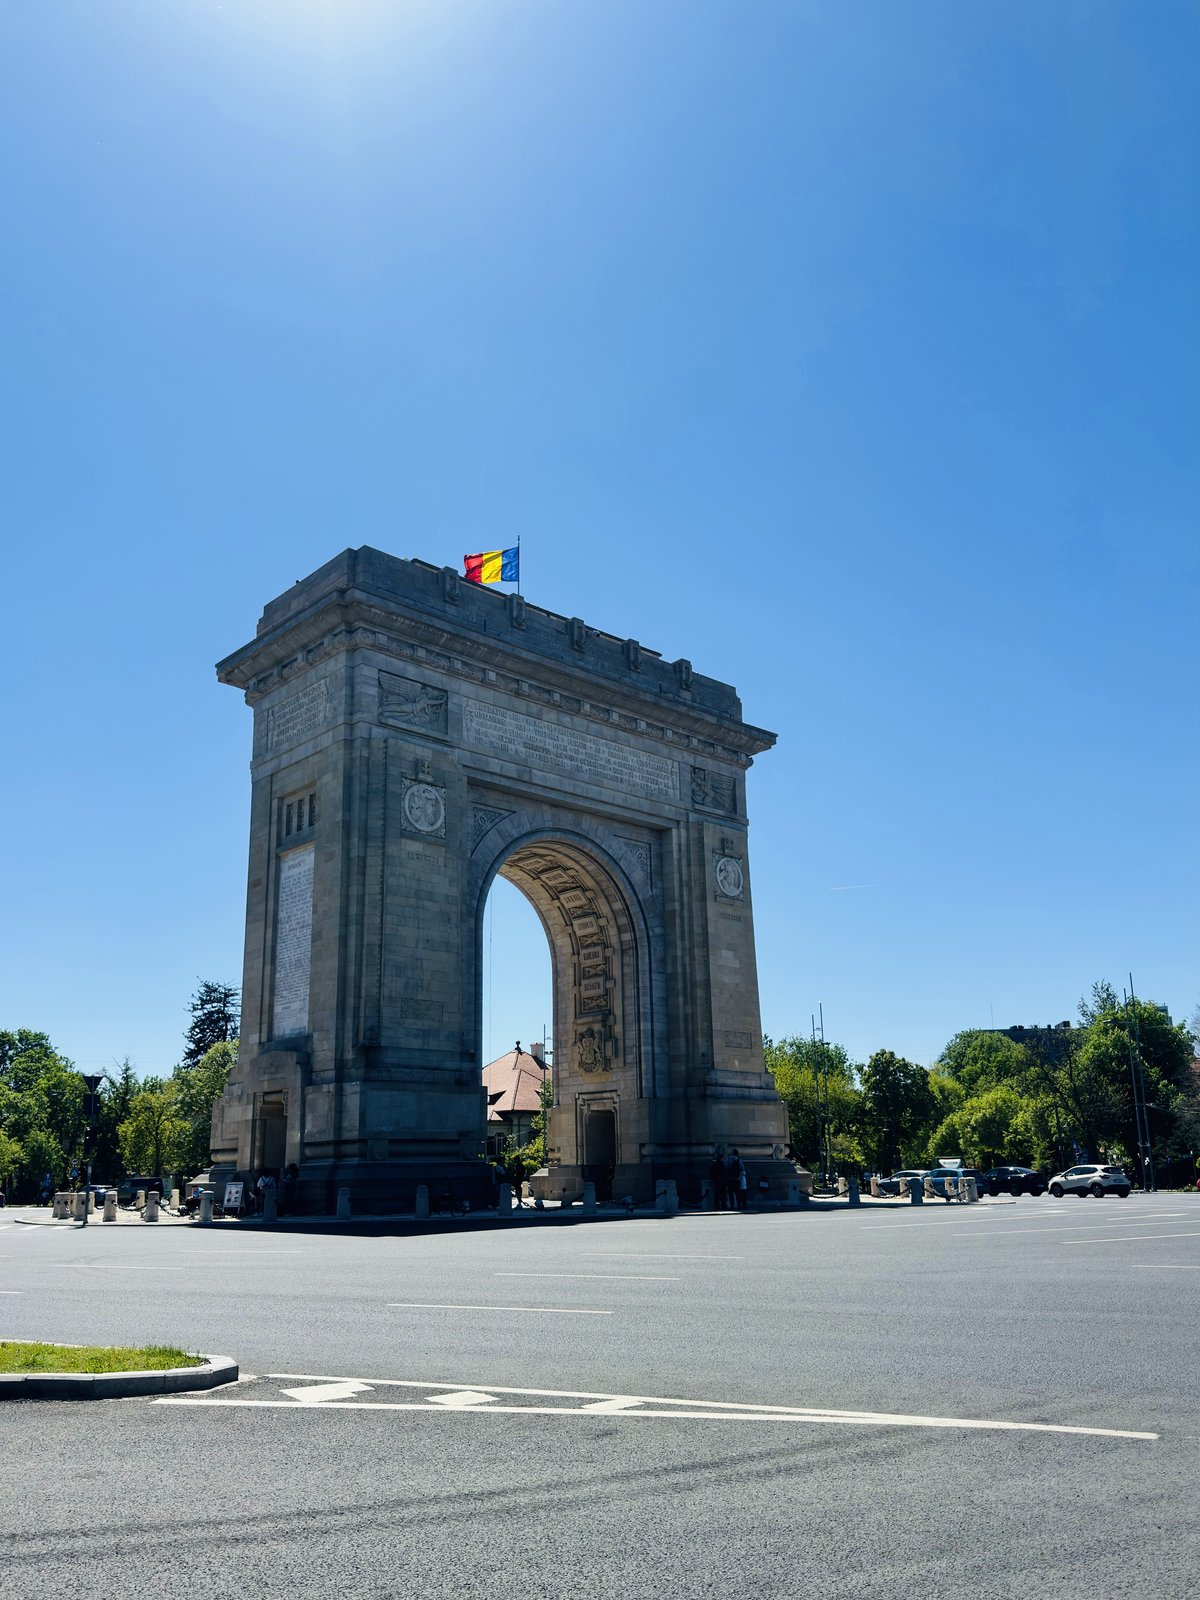
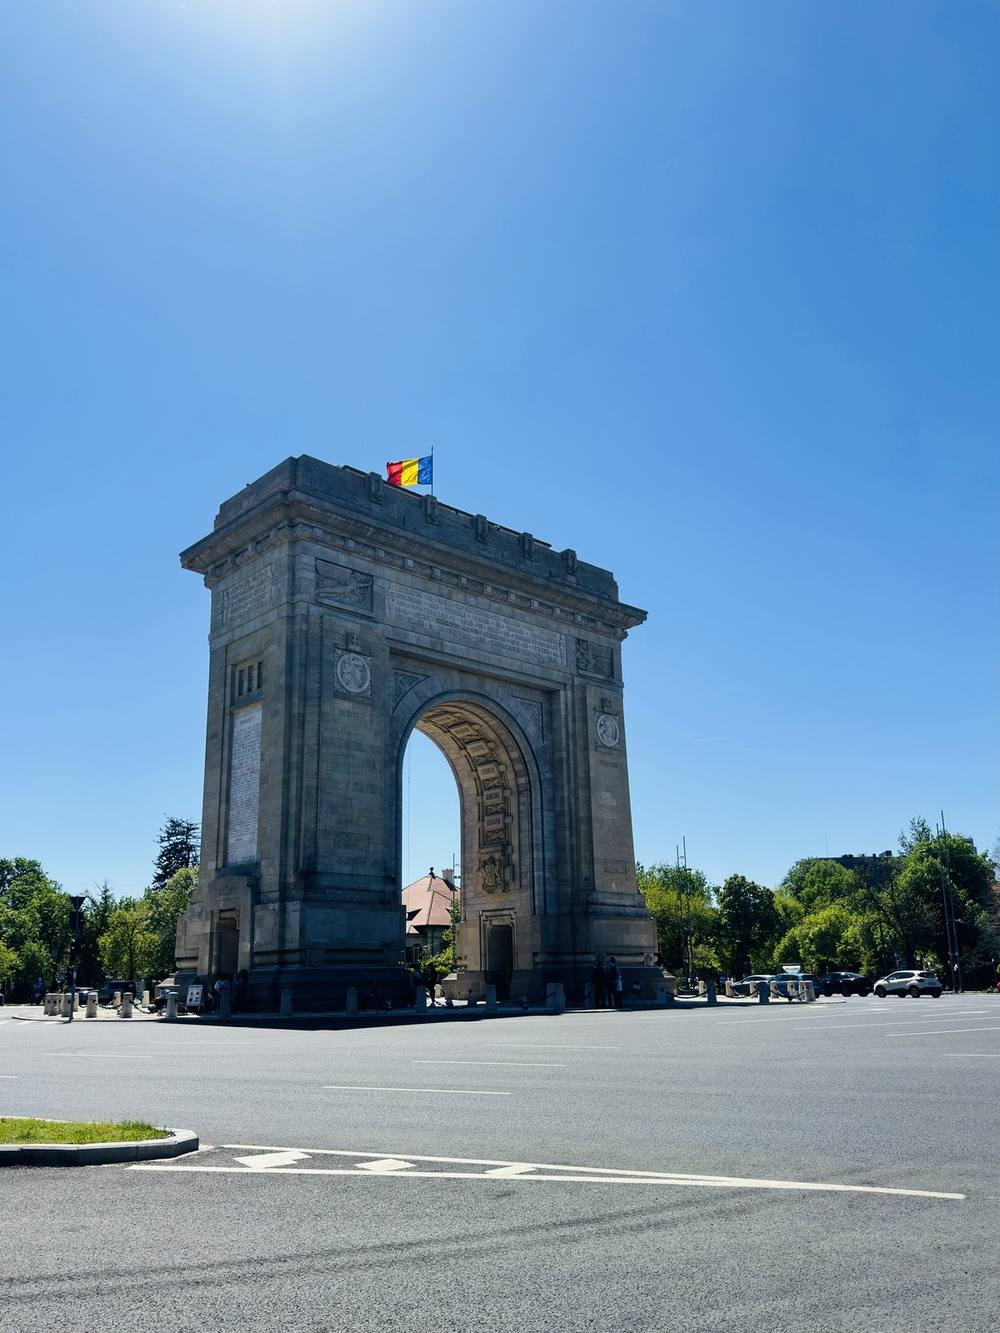
Foto più leggere e in linea col testo, correggo Uber in Bolt
- Ricomprime le foto dell'articolo Bucarest (1000x1333, qualità 72):
  da ~7MB a ~3.6MB totali
- Aggiunge supporto a più immagini per sezione, legate a un paragrafo
  preciso (`images[].afterParagraph`), invece di un unico blocco a
  fine sezione: le foto singole diventano un formato più compatto
  16:10, i gruppi di più foto si affiancano in griglia
- Ridistribuisce tutte le foto dell'articolo (comprese quelle finora
  nella galleria in fondo) accanto al paragrafo a cui si riferiscono
- Corregge "Uber" in "Bolt" nel racconto del giorno 3

Changed region(s): [[0.0, 0.6459, 0.062, 0.7074], [0.155, 0.6152, 0.186, 0.6767], [0.403, 0.3383, 0.434, 0.3691]]

diff --git a/src/data/articles.js b/src/data/articles.js
@@ -71,16 +71,20 @@ export const articles = [
               "Dopo cena abbiamo fatto una passeggiata nel Centrul Vechi. Nel weekend le strade del centro hanno un'aria di festa continua, con locali affollati e musica che esce dai portoni: è la prima cosa che colpisce di Bucarest, ancora prima dei monumenti.",
             ],
 
-            image: "/bucarest-article-hanul-2.jpg",
-
-            imageWidth: 1200,
-
-            imageHeight: 1600,
-
-            imageAlt: "Il cortile di Hanul lui Manuc affollato la sera",
-
-            caption:
-              "Il cortile di Hanul lui Manuc, tra tavoli pieni e musica dal vivo.",
+            images: [
+              {
+                src: "/bucarest-article-hanul-1.jpg",
+                alt: "Un piatto tradizionale rumeno da Hanul lui Manuc",
+                caption: "Il piatto tradizionale della nostra prima cena a Bucarest.",
+                afterParagraph: 0,
+              },
+              {
+                src: "/bucarest-article-hanul-2.jpg",
+                alt: "Il cortile di Hanul lui Manuc affollato la sera",
+                caption: "Il cortile di Hanul lui Manuc, tra tavoli pieni e musica dal vivo.",
+                afterParagraph: 1,
+              },
+            ],
 
             quote:
               "Non ci aspettavamo che il primo impatto con Bucarest fosse un locale pieno di musica dal vivo e gente che balla.",
@@ -113,16 +117,26 @@ export const articles = [
               "Dalla colazione siamo passati per la famosissima e particolarissima Strada Cu Umbrele, la strada degli ombrelli, prima di arrivare a Cărturești Carusel, la cartolibreria più famosa di Bucarest: vale la visita anche solo per l'interno.",
             ],
 
-            image: "/bucarest-article-carturesti.jpg",
-
-            imageWidth: 1200,
-
-            imageHeight: 1600,
-
-            imageAlt: "Interno della libreria Cărturești Carusel",
-
-            caption:
-              "Cărturești Carusel, uno degli interni più riconoscibili di Bucarest.",
+            images: [
+              {
+                src: "/bucarest-article-colazione.jpg",
+                alt: "Pancake alla colazione di Coftale Coffee Shop",
+                caption: "La colazione da Coftale Coffee Shop.",
+                afterParagraph: 0,
+              },
+              {
+                src: "/bucarest-article-strada-ombrele.jpg",
+                alt: "Gli ombrelli colorati di Strada Cu Umbrele",
+                caption: "Strada Cu Umbrele.",
+                afterParagraph: 1,
+              },
+              {
+                src: "/bucarest-article-carturesti.jpg",
+                alt: "Interno della libreria Cărturești Carusel",
+                caption: "Cărturești Carusel, uno degli interni più riconoscibili di Bucarest.",
+                afterParagraph: 1,
+              },
+            ],
 
             quote:
               "Bastava alzare gli occhi sopra la testa per capire perché tutti fotografano questo posto.",
@@ -139,16 +153,38 @@ export const articles = [
               "Al tramonto siamo andati al Parcul Cismigiu: un parco piacevole da visitare per il laghetto e i ponti che lo attraversano, perfetto per rallentare dopo una giornata di cammino.",
             ],
 
-            image: "/bucarest-article-parlamento.jpg",
-
-            imageWidth: 1200,
-
-            imageHeight: 1600,
-
-            imageAlt: "Il Palazzo del Parlamento di Bucarest in una giornata di sole",
-
-            caption:
-              "Il Palazzo del Parlamento, il più grande edificio governativo al mondo dopo il Pentagono.",
+            images: [
+              {
+                src: "/bucarest-article-victoriei.jpg",
+                alt: "Calea Victoriei pedonale in una giornata di sole",
+                caption: "Calea Victoriei.",
+                afterParagraph: 0,
+              },
+              {
+                src: "/bucarest-article-ateneul.jpg",
+                alt: "L'Ateneul Roman visto dal giardino",
+                caption: "L'Ateneul Roman.",
+                afterParagraph: 0,
+              },
+              {
+                src: "/bucarest-article-parlamento.jpg",
+                alt: "Il Palazzo del Parlamento di Bucarest in una giornata di sole",
+                caption: "Il Palazzo del Parlamento.",
+                afterParagraph: 0,
+              },
+              {
+                src: "/bucarest-article-stavropoleos.jpg",
+                alt: "La facciata dipinta della chiesa di Stavropoleos",
+                caption: "La chiesa di Stavropoleos.",
+                afterParagraph: 0,
+              },
+              {
+                src: "/bucarest-article-pedalo-tramonto.jpg",
+                alt: "Pedalò al tramonto sul laghetto del Parcul Cismigiu",
+                caption: "Il laghetto del Parcul Cismigiu al tramonto.",
+                afterParagraph: 1,
+              },
+            ],
 
             quote:
               "Bastava allontanarsi di poche centinaia di metri da Calea Victoriei per trovare un ritmo completamente diverso.",
@@ -196,16 +232,26 @@ export const articles = [
               "Pedalando si passa dal memoriale a Michael Jackson fino all'Arco di Trionfo, molto simile a quello parigino, tra scorci che meritano più di una sosta.",
             ],
 
-            image: "/bucarest-article-arco-trionfo.jpg",
-
-            imageWidth: 1200,
-
-            imageHeight: 1600,
-
-            imageAlt: "L'Arco di Trionfo di Bucarest in una giornata di sole",
-
-            caption:
-              "L'Arco di Trionfo, molto simile a quello parigino, tappa finale della pedalata lungo il lago.",
+            images: [
+              {
+                src: "/bucarest-article-bici-herastrau.jpg",
+                alt: "Bici a noleggio sul lago del Parcul Herastrau",
+                caption: "Il noleggio bici di iVelo sul lago di Herastrau.",
+                afterParagraph: 0,
+              },
+              {
+                src: "/bucarest-article-memorial-jackson.jpg",
+                alt: "Il memoriale a Michael Jackson nel Parcul Herastrau",
+                caption: "Il memoriale a Michael Jackson.",
+                afterParagraph: 1,
+              },
+              {
+                src: "/bucarest-article-arco-trionfo.jpg",
+                alt: "L'Arco di Trionfo di Bucarest in una giornata di sole",
+                caption: "L'Arco di Trionfo, molto simile a quello parigino.",
+                afterParagraph: 1,
+              },
+            ],
 
             quote:
               "Il parco più bello lo abbiamo scoperto in bici, non a piedi.",
@@ -222,15 +268,14 @@ export const articles = [
               "Il pomeriggio lo abbiamo passato girando i dintorni del centro, osservando la classica domenica delle famiglie nei tanti parchi della città, con un caffè freddo nel suggestivo bar Mayfair 39.",
             ],
 
-            image: "/bucarest-article-pastrami.jpg",
-
-            imageWidth: 1200,
-
-            imageHeight: 1600,
-
-            imageAlt: "Un sandwich di pastrami da In House Pastrami",
-
-            caption: "Il pastrami di In House Pastrami, la versione originale rumena del piatto.",
+            images: [
+              {
+                src: "/bucarest-article-pastrami.jpg",
+                alt: "Un sandwich di pastrami da In House Pastrami",
+                caption: "Il pastrami di In House Pastrami, la versione originale rumena del piatto.",
+                afterParagraph: 0,
+              },
+            ],
 
             quote:
               "La domenica pomeriggio a Bucarest si vive nei parchi, tra famiglie e passeggini, non nei musei.",
@@ -242,7 +287,7 @@ export const articles = [
             paragraphs: [
               "Abbiamo deciso volutamente di omettere le famosissime terme. Perché? Perché spesso si pensa che la cosa che fanno tutti sia quella da provare assolutamente, e si finisce nella banalità, a condividere l'attività con altri italiani in vacanza.",
               "Noi di Europando vogliamo vivere il posto con la sua autenticità: ogni tanto qualcosa di scontato ci sta, ma non sarà mai il filo conduttore dei nostri viaggi. Amiamo vivere con i cittadini, parlare con loro, ascoltare le loro storie e imparare dalla storia del paese che visitiamo.",
-              "Ogni spostamento lo abbiamo fatto con Uber: economico e veloce. I mezzi pubblici, nella nostra esperienza, sono risultati poco efficienti.",
+              "Ogni spostamento lo abbiamo fatto con Bolt: economico e veloce. I mezzi pubblici, nella nostra esperienza, sono risultati poco efficienti.",
             ],
 
             image: "",
@@ -279,15 +324,14 @@ export const articles = [
               "Se dovessimo raccontare una sola cosa di questo viaggio a un amico, racconteremmo che le strade del centro di Bucarest sono un luogo in cui capita di fermarsi a cantare con sconosciuti: un momento bellissimo che non conosce limiti né barriere linguistiche.",
             ],
 
-            image: "/bucarest-article-colazione-finale.jpg",
-
-            imageWidth: 1200,
-
-            imageHeight: 1600,
-
-            imageAlt: "L'ultima colazione da Gram Bistro prima della partenza",
-
-            caption: "L'ultima colazione da Gram Bistro, prima del pullman per l'aeroporto.",
+            images: [
+              {
+                src: "/bucarest-article-colazione-finale.jpg",
+                alt: "L'ultima colazione da Gram Bistro prima della partenza",
+                caption: "L'ultima colazione da Gram Bistro, prima del pullman per l'aeroporto.",
+                afterParagraph: 0,
+              },
+            ],
 
             quote:
               "Non ci ha conquistati una singola attrazione, ma la sensazione di essere finiti a cantare per strada con degli sconosciuti.",
@@ -296,44 +340,7 @@ export const articles = [
       },
     ],
 
-    gallery: [
-      {
-        src: "/bucarest-article-hanul-1.jpg",
-        alt: "Un piatto tradizionale rumeno da Hanul lui Manuc",
-      },
-      {
-        src: "/bucarest-article-colazione.jpg",
-        alt: "Pancake alla colazione di Coftale Coffee Shop",
-      },
-      {
-        src: "/bucarest-article-victoriei.jpg",
-        alt: "Calea Victoriei pedonale in una giornata di sole",
-      },
-      {
-        src: "/bucarest-article-ateneul.jpg",
-        alt: "L'Ateneul Roman visto dal giardino",
-      },
-      {
-        src: "/bucarest-article-stavropoleos.jpg",
-        alt: "La facciata dipinta della chiesa di Stavropoleos",
-      },
-      {
-        src: "/bucarest-article-memorial-jackson.jpg",
-        alt: "Il memoriale a Michael Jackson nel Parcul Herastrau",
-      },
-      {
-        src: "/bucarest-article-strada-ombrele.jpg",
-        alt: "Gli ombrelli colorati di Strada Cu Umbrele",
-      },
-      {
-        src: "/bucarest-article-bici-herastrau.jpg",
-        alt: "Bici a noleggio sul lago del Parcul Herastrau",
-      },
-      {
-        src: "/bucarest-article-pedalo-tramonto.jpg",
-        alt: "Pedalò al tramonto su un laghetto di Bucarest",
-      },
-    ],
+    gallery: [],
 
     galleryTitle: "Bucarest attraverso le nostre fotografie",
 

diff --git a/src/pages/ArticlePage.jsx b/src/pages/ArticlePage.jsx
@@ -277,34 +277,81 @@ function RouteDivider() {
   );
 }
 
-// width e height dichiarati fanno riservare al browser lo spazio esatto prima
-// che l'immagine arrivi: senza, il testo veniva spinto in basso al caricamento.
-function BlogImage({ src, alt, caption, width, height }) {
-  if (!src) {
+// Un gruppo di una o più foto legate allo stesso punto del testo. Con più di
+// un'immagine diventano una piccola griglia affiancata invece di blocchi
+// enormi impilati. L'aspect ratio fisso riserva lo spazio prima del
+// caricamento, senza bisogno di width/height sull'tag <img>.
+function PhotoGroup({ images }) {
+  if (!images?.length) {
     return null;
   }
 
-  return (
-    <figure className="my-11 md:-mx-16 md:my-14">
-      <div className="overflow-hidden rounded-[1.5rem] bg-[#e5ddd2] shadow-[0_16px_45px_rgba(39,54,71,0.09)]">
-        <img
-          src={resolveAsset(src)}
-          alt={alt}
-          width={width}
-          height={height}
-          loading="lazy"
-          decoding="async"
-          className="max-h-[760px] w-full object-cover transition duration-700 hover:scale-[1.015]"
-        />
-      </div>
+  const isSingle = images.length === 1;
 
-      {caption && (
-        <figcaption className="mt-4 px-1 text-sm leading-6 text-[#738092]">
-          {caption}
-        </figcaption>
-      )}
-    </figure>
+  const gridClass = isSingle
+    ? "grid-cols-1"
+    : images.length === 2
+      ? "grid-cols-2"
+      : "grid-cols-2 sm:grid-cols-4";
+
+  return (
+    <div className={`my-8 grid gap-3 sm:gap-4 ${gridClass}`}>
+      {images.map((image, index) => (
+        <figure
+          key={`${image.src}-${index}`}
+          className="overflow-hidden rounded-[1.2rem] bg-[#e5ddd2] shadow-[0_10px_30px_rgba(39,54,71,0.08)]"
+        >
+          <img
+            src={resolveAsset(image.src)}
+            alt={image.alt || ""}
+            loading="lazy"
+            decoding="async"
+            className={`w-full object-cover transition duration-700 hover:scale-[1.03] ${
+              isSingle ? "aspect-[16/10]" : "aspect-[3/4]"
+            }`}
+          />
+
+          {image.caption && (
+            <figcaption className="px-3 py-2 text-xs leading-5 text-[#738092]">
+              {image.caption}
+            </figcaption>
+          )}
+        </figure>
+      ))}
+    </div>
   );
+}
+
+// Le foto di una sezione possono legarsi a un paragrafo preciso
+// (`afterParagraph`, indice 0-based) invece di comparire tutte insieme in
+// fondo. Quelle senza indice, o il vecchio campo singolo `image`, restano di
+// default in coda alla sezione.
+function groupSectionImages(section) {
+  const groups = new Map();
+
+  (section.images ?? []).forEach((image) => {
+    const key = Number.isInteger(image.afterParagraph)
+      ? image.afterParagraph
+      : -1;
+
+    if (!groups.has(key)) {
+      groups.set(key, []);
+    }
+
+    groups.get(key).push(image);
+  });
+
+  if (!section.images?.length && section.image) {
+    groups.set(-1, [
+      {
+        src: section.image,
+        alt: section.imageAlt || section.title,
+        caption: section.caption,
+      },
+    ]);
+  }
+
+  return groups;
 }
 
 function PersonalNote({ children }) {
@@ -371,6 +418,8 @@ function TravelTip({ children }) {
 }
 
 function ArticleSection({ section }) {
+  const imageGroups = groupSectionImages(section);
+
   return (
     <section>
       {section.title && (
@@ -382,18 +431,16 @@ function ArticleSection({ section }) {
       {section.paragraphs?.length > 0 && (
         <div className="mt-7 space-y-7 text-[1.08rem] leading-8 text-[#48596c] sm:text-lg sm:leading-9">
           {section.paragraphs.map((paragraph, index) => (
-            <p key={index}>{paragraph}</p>
+            <div key={index}>
+              <p>{paragraph}</p>
+
+              <PhotoGroup images={imageGroups.get(index)} />
+            </div>
           ))}
         </div>
       )}
 
-      <BlogImage
-        src={section.image}
-        alt={section.imageAlt || section.title}
-        caption={section.caption}
-        width={section.imageWidth}
-        height={section.imageHeight}
-      />
+      <PhotoGroup images={imageGroups.get(-1)} />
 
       <PersonalNote>{section.quote}</PersonalNote>
 
